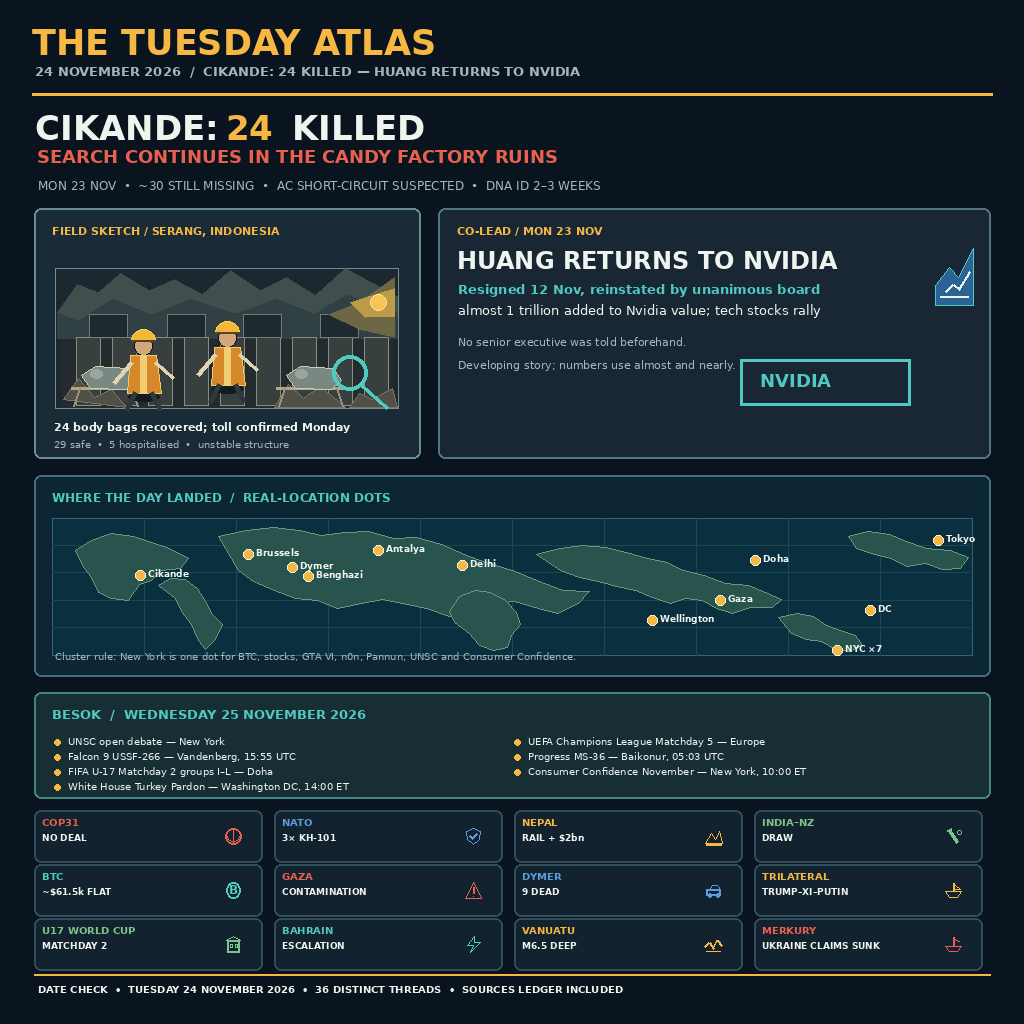
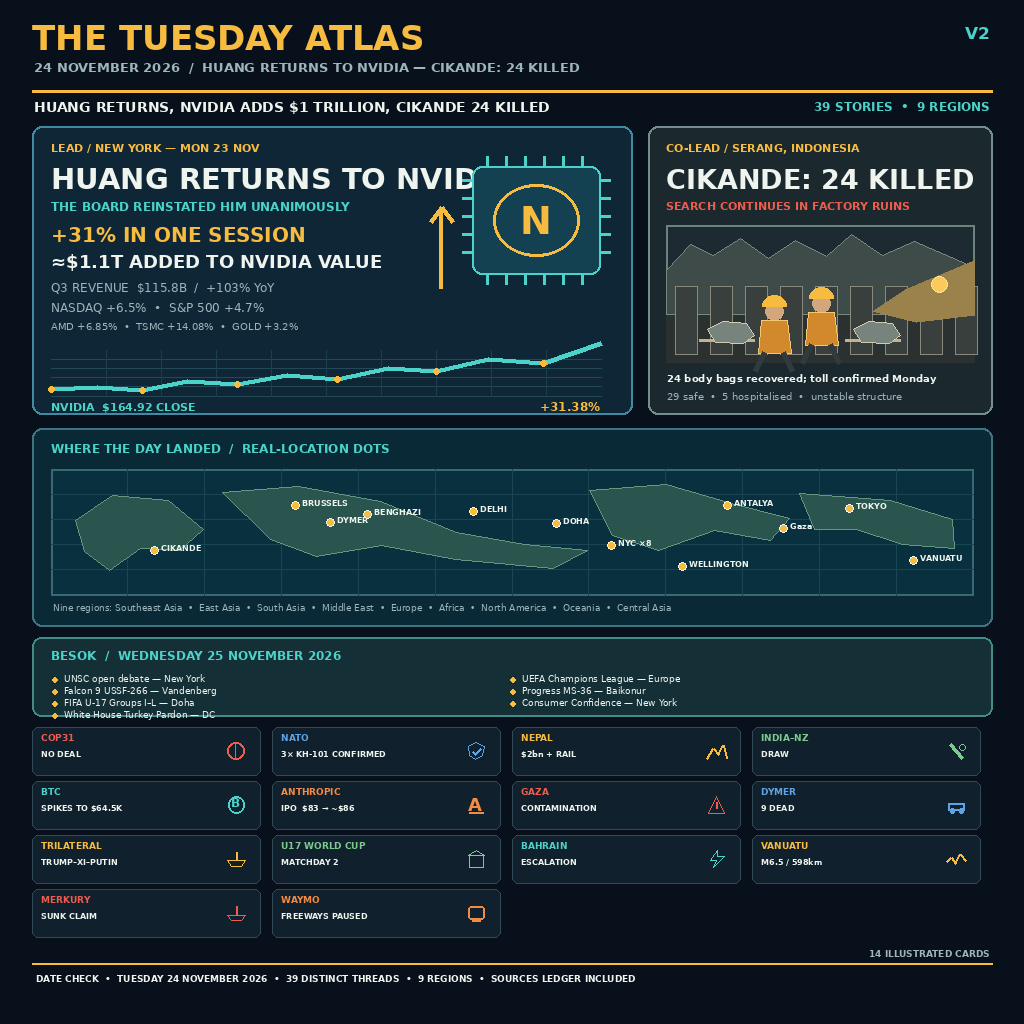
Rebuild Tuesday Atlas V2 around Huang Nvidia lead

diff --git a/render.py b/render.py
@@ -1,87 +1,70 @@
-from PIL import Image,ImageDraw,ImageFont
-W=H=1024; BG=(10,20,30); INK=(239,244,238); MUTED=(163,184,188); GOLD=(246,184,66); RED=(232,96,78); CYAN=(80,201,193); BLUE=(89,157,220); GREEN=(124,196,137); PANEL=(19,35,47)
-im=Image.new('RGB',(W,H),BG); d=ImageDraw.Draw(im); fp='/usr/share/fonts/truetype/dejavu/DejaVuSans.ttf'; fb='/usr/share/fonts/truetype/dejavu/DejaVuSans-Bold.ttf'
-def F(n,b=0): return ImageFont.truetype(fb if b else fp,n)
-def T(x,y,s,n=12,c=INK,b=0): d.text((x,y),s,font=F(n,b),fill=c)
-def B(a,fill=PANEL,ol=(48,77,91)): d.rounded_rectangle(a,7,fill=fill,outline=ol,width=2)
-T(32,22,'THE TUESDAY ATLAS',35,GOLD,1); T(35,63,'24 NOVEMBER 2026  /  CIKANDE: 24 KILLED — HUANG RETURNS TO NVIDIA',13,MUTED,1); d.line((32,94,992,94),fill=GOLD,width=3)
-T(35,108,'CIKANDE:',34,INK,1); T(35+d.textlength('CIKANDE:',font=F(34,1))+7,108,'24',34,GOLD,1); T(35+d.textlength('CIKANDE: 24',font=F(34,1))+14,108,'KILLED',34,INK,1); T(37,146,'SEARCH CONTINUES IN THE CANDY FACTORY RUINS',18,RED,1); T(38,178,'MON 23 NOV  •  ~30 STILL MISSING  •  AC SHORT-CIRCUIT SUSPECTED  •  DNA ID 2–3 WEEKS',12,MUTED)
-B((34,208,420,458),(25,43,55),(105,139,147)); T(52,224,'FIELD SKETCH / SERANG, INDONESIA',11,GOLD,1); d.rectangle((55,268,398,408),fill=(41,52,58),outline=(115,142,143),width=2)
-# A compact field illustration: damaged factory, searchlight, rubble and properly proportioned crews.
-d.rectangle((56,269,397,407),fill=(28,39,48)); d.rectangle((61,337,392,407),fill=(35,43,47))
-d.polygon([(57,312),(77,284),(98,292),(120,273),(149,290),(174,279),(202,294),(230,270),(260,290),(286,277),(315,295),(345,268),(397,296),(397,338),(57,338)],fill=(49,64,67))
-d.polygon([(57,312),(77,284),(98,292),(120,273),(149,290),(174,279),(202,294),(230,270),(260,290),(286,277),(315,295),(345,268),(397,296),(397,312),(346,294),(314,313),(276,298),(235,313),(190,298),(151,314),(112,298),(78,320)],fill=(64,78,77))
-for x in (76,112,148,184,220,256,292,328,364):
- d.rectangle((x,337,x+24,405),fill=(56,64,63),outline=(139,141,126),width=1)
-for x in (89,167,243,320):
- d.rectangle((x,314,x+38,337),fill=(30,42,47),outline=(115,125,116),width=1)
-# warm rescue beam and its bright landing point
-d.polygon([(328,314),(359,302),(394,277),(394,337),(359,329)],fill=(109,103,70))
-d.polygon([(350,302),(362,298),(394,288),(394,316),(365,317)],fill=(188,155,73))
-d.ellipse((370,294,386,310),fill=(246,197,83),outline=(255,226,145),width=1)
-# rubble in the foreground
-for p in [[(63,399),(78,378),(94,397),(111,389),(126,407)],[(274,407),(288,384),(303,398),(320,386),(345,407)],[(349,407),(359,393),(372,399),(392,388),(397,407)]]: d.polygon(p,fill=(81,80,72),outline=(126,117,93))
-# stretchers and covered body bags
-for x in (71,276):
- d.line((x,388,x+69,388),fill=(179,166,128),width=3); d.line((x+8,388,x+2,406),fill=(157,148,119),width=2); d.line((x+60,388,x+66,406),fill=(157,148,119),width=2)
- d.polygon([(x+10,375),(x+24,366),(x+57,368),(x+65,380),(x+55,389),(x+19,388)],fill=(122,136,132),outline=(201,205,180))
- d.ellipse((x+19,369,x+31,378),fill=(156,165,153))
-# two rescuers with helmets, vests, arms, legs and shadows
-for x,y,scale in [(143,367,1),(227,359,1)]:
- d.ellipse((x-15,y+25,x+16,y+34),fill=(18,27,31))
- d.ellipse((x-9,y-31,x+9,y-12),fill=(211,166,124),outline=(15,20,24))
- d.pieslice((x-12,y-38,x+12,y-15),180,360,fill=(244,183,55),outline=(255,210,91)); d.line((x-12,y-27,x+12,y-27),fill=(87,67,39),width=2)
- d.polygon([(x-13,y-12),(x+13,y-12),(x+18,y+26),(x-16,y+26)],fill=(214,137,43),outline=(239,201,112))
- d.rectangle((x-3,y-11,x+3,y+25),fill=(241,206,116)); d.line((x-12,y-5,x-30,y+16),fill=(224,211,178),width=4); d.line((x+12,y-5,x+30,y+11),fill=(224,211,178),width=4)
- d.line((x-8,y+25,x-17,y+43),fill=(47,57,61),width=5); d.line((x+8,y+25,x+17,y+43),fill=(47,57,61),width=5)
-d.ellipse((332,355,367,390),outline=CYAN,width=4); d.line((360,384,387,408),fill=CYAN,width=5); T(54,420,'24 body bags recovered; toll confirmed Monday',11,INK,1); T(54,438,'29 safe  •  5 hospitalised  •  unstable structure',10,MUTED)
-B((438,208,990,458),(25,39,52),(82,117,134)); T(457,224,'CO-LEAD / MON 23 NOV',11,GOLD,1); T(457,246,'HUANG RETURNS TO NVIDIA',24,INK,1); T(458,281,'Resigned 12 Nov, reinstated by unanimous board',13,CYAN,1); T(458,302,'almost 1 trillion added to Nvidia value; tech stocks rally',13,INK)
-# Small upward market mark in the spare right edge; the text column remains unobstructed.
-d.polygon([(935,285),(949,267),(958,277),(973,248),(973,305),(935,305)],fill=(42,100,151),outline=CYAN)
-d.line((940,296,968,296),fill=INK,width=2); d.line((946,291,953,284),fill=INK,width=2); d.line((953,284,959,289),fill=INK,width=2); d.line((959,289,970,271),fill=INK,width=2)
-d.rectangle((740,359,910,405),outline=CYAN,width=3); T(760,370,'NVIDIA',18,CYAN,1); T(458,335,'No senior executive was told beforehand.',11,MUTED); T(458,358,'Developing story; numbers use almost and nearly.',11,MUTED)
-B((34,475,990,676),(13,38,52),(67,111,122)); T(52,490,'WHERE THE DAY LANDED  /  REAL-LOCATION DOTS',12,CYAN,1); mx,my,mw,mh=52,518,920,137; d.rectangle((mx,my,mx+mw,my+mh),fill=(10,48,63),outline=(52,102,113))
-for i in range(1,10): d.line((mx+i*mw/10,my,mx+i*mw/10,my+mh),fill=(27,72,81))
-for i in range(1,5): d.line((mx,my+i*mh/5,mx+mw,my+i*mh/5),fill=(27,72,81))
-for s in [
- [(75,550),(91,540),(111,533),(133,536),(151,542),(169,548),(188,558),(180,568),(161,570),(151,580),(139,584),(128,600),(111,598),(98,592),(91,577),(84,568)],
- [(158,585),(170,578),(185,579),(197,588),(205,601),(212,614),(222,624),(215,639),(205,649),(198,640),(191,624),(182,612),(175,598)],
- [(218,536),(246,530),(273,527),(299,530),(321,535),(345,532),(368,531),(393,538),(416,537),(441,544),(464,554),(485,562),(512,570),(539,581),(563,590),(589,591),(578,603),(557,613),(538,608),(514,601),(493,603),(470,609),(449,616),(426,608),(402,603),(382,599),(361,603),(337,608),(317,600),(295,598),(274,590),(253,581),(238,570)],
- [(459,596),(475,590),(490,592),(505,600),(516,612),(520,624),(511,635),(507,647),(493,650),(479,645),(469,633),(454,622),(449,611)],
- [(536,554),(560,548),(582,545),(605,547),(626,552),(647,558),(667,562),(683,570),(704,575),(725,583),(748,585),(765,592),(781,599),(772,607),(750,607),(732,613),(716,608),(702,600),(685,598),(670,603),(652,597),(635,590),(616,586),(598,581),(579,577),(560,570)],
- [(778,617),(797,613),(813,616),(826,625),(840,630),(855,635),(862,645),(849,651),(833,648),(821,641),(806,639),(791,633)],
- [(848,536),(868,531),(889,534),(906,541),(926,548),(950,550),(968,557),(960,568),(942,569),(925,563),(906,566),(891,558),(874,554),(856,548)]]: d.polygon(s,fill=(40,84,77),outline=(104,152,126))
-for x,y,l in [(140,575,'Cikande'),(378,550,'Antalya'),(248,554,'Brussels'),(292,567,'Dymer'),(308,576,'Benghazi'),(462,565,'Delhi'),(652,620,'Wellington'),(755,560,'Doha'),(837,650,'NYC ×7'),(870,610,'DC'),(720,600,'Gaza'),(938,540,'Tokyo')]: d.ellipse((x-5,y-5,x+5,y+5),fill=GOLD,outline=INK); T(x+8,y-7,l,9,INK,1)
-T(55,650,'Cluster rule: New York is one dot for BTC, stocks, GTA VI, n0n, Pannun, UNSC and Consumer Confidence.',10,MUTED)
-B((34,692,990,798),(23,46,53),(64,133,132)); T(52,706,'BESOK  /  WEDNESDAY 25 NOVEMBER 2026',13,CYAN,1)
-events=['UNSC open debate — New York','UEFA Champions League Matchday 5 — Europe','Falcon 9 USSF-266 — Vandenberg, 15:55 UTC','Progress MS-36 — Baikonur, 05:03 UTC','FIFA U-17 Matchday 2 groups I–L — Doha','Consumer Confidence November — New York, 10:00 ET','White House Turkey Pardon — Washington DC, 14:00 ET']
-for i,e in enumerate(events): x=54+(i%2)*460; y=735+(i//2)*15; d.ellipse((x,y+4,x+6,y+10),fill=GOLD); T(x+14,y,e,10)
-cards=[('COP31','NO DEAL',RED),('NATO','3× KH-101',BLUE),('NEPAL','RAIL + $2bn',GOLD),('INDIA–NZ','DRAW',GREEN),('BTC','~$61.5k FLAT',CYAN),('GAZA','CONTAMINATION',RED),('DYMER','9 DEAD',BLUE),('TRILATERAL','TRUMP–XI–PUTIN',GOLD),('U17 WORLD CUP','MATCHDAY 2',GREEN),('BAHRAIN','ESCALATION',CYAN),('VANUATU','M6.5 DEEP',GOLD),('MERKURY','UKRAINE CLAIMS SUNK',RED)]
+from PIL import Image, ImageDraw, ImageFont
+
+W = H = 1024
+BG = (8, 17, 27); PANEL = (16, 31, 43); INK = (239, 244, 238)
+MUTED = (157, 181, 187); GOLD = (247, 188, 63); CYAN = (76, 211, 201)
+RED = (237, 92, 76); BLUE = (95, 163, 229); GREEN = (125, 202, 142); ORANGE = (244, 139, 68)
+im = Image.new('RGB', (W, H), BG); d = ImageDraw.Draw(im)
+FP = '/usr/share/fonts/truetype/dejavu/DejaVuSans.ttf'; FB = '/usr/share/fonts/truetype/dejavu/DejaVuSans-Bold.ttf'
+def font(n, bold=False): return ImageFont.truetype(FB if bold else FP, n)
+def text(x, y, s, n=12, c=INK, bold=False, anchor=None): d.text((x, y), s, font=font(n, bold), fill=c, anchor=anchor)
+def box(x0, y0, x1, y1, fill=PANEL, outline=(52, 83, 96), r=8, w=2): d.rounded_rectangle((x0,y0,x1,y1), r, fill=fill, outline=outline, width=w)
+def line(points, fill, width=2): d.line(points, fill=fill, width=width)
+
+text(32,18,'THE TUESDAY ATLAS',34,GOLD,True); text(34,59,'24 NOVEMBER 2026  /  HUANG RETURNS TO NVIDIA — CIKANDE: 24 KILLED',13,MUTED,True); text(990,23,'V2',17,CYAN,True,'ra'); line((32,91,992,91),GOLD,3)
+text(34,99,'HUANG RETURNS, NVIDIA ADDS $1 TRILLION, CIKANDE 24 KILLED',14,INK,True); text(990,99,'39 STORIES  •  9 REGIONS',12,CYAN,True,'ra')
+
+box(32,126,632,414,(15,38,55),(64,139,163),10,2); text(51,141,'LEAD / NEW YORK — MON 23 NOV',11,GOLD,True); text(51,162,'HUANG RETURNS TO NVIDIA',29,INK,True); text(51,199,'THE BOARD REINSTATED HIM UNANIMOUSLY',12,CYAN,True); text(51,223,'+31% IN ONE SESSION',20,GOLD,True); text(51,251,'≈$1.1T ADDED TO NVIDIA VALUE',18,INK,True); text(51,280,'Q3 REVENUE  $115.8B  /  +103% YoY',12,MUTED); text(51,300,'NASDAQ +6.5%  •  S&P 500 +4.7%',12,MUTED); text(51,320,'AMD +6.85%  •  TSMC +14.08%  •  GOLD +3.2%',10,MUTED)
+gx,gy,gw,gh=51,350,550,46
+for i in range(1,6): line((gx,gy+i*gh/5,gx+gw,gy+i*gh/5),(35,73,88),1)
+for i in range(1,10): line((gx+i*gw/10,gy,gx+i*gw/10,gy+gh),(28,62,78),1)
+pts=[(gx,gy+39),(gx+46,gy+37),(gx+91,gy+40),(gx+136,gy+31),(gx+186,gy+34),(gx+236,gy+25),(gx+286,gy+29),(gx+337,gy+18),(gx+385,gy+21),(gx+437,gy+9),(gx+492,gy+13),(gx+550,gy-7)]
+line(pts,CYAN,5)
+for x,y in pts[::2]: d.ellipse((x-3,y-3,x+3,y+3),fill=GOLD)
+text(51,400,'NVIDIA  $164.92 CLOSE',11,CYAN,True); text(600,399,'+31.38%',12,GOLD,True,'ra')
+d.rounded_rectangle((472,166,600,274),10,fill=(20,65,82),outline=CYAN,width=2)
+for xx in (487,506,525,544,563,582): line((xx,156,xx,166),CYAN,3); line((xx,274,xx,284),CYAN,3)
+for yy in (180,198,216,234,252): line((462,yy,472,yy),CYAN,3); line((600,yy,610,yy),CYAN,3)
+d.ellipse((493,184,579,256),outline=GOLD,width=3); text(536,220,'N',38,GOLD,True,'mm'); line((441,288,441,207),GOLD,4); line((441,207,430,222),GOLD,4); line((441,207,452,222),GOLD,4)
+
+box(648,126,992,414,(27,40,46),(116,141,141),10,2); text(666,141,'CO-LEAD / SERANG, INDONESIA',11,GOLD,True); text(666,163,'CIKANDE: 24 KILLED',27,INK,True); text(666,199,'SEARCH CONTINUES IN FACTORY RUINS',11,RED,True)
+ix0,iy0,ix1,iy1=666,225,974,362; d.rectangle((ix0,iy0,ix1,iy1),fill=(30,42,49),outline=(107,130,127),width=2); d.rectangle((ix0,314,ix1,iy1),fill=(43,48,48)); roof=[(ix0,270),(690,244),(713,255),(740,238),(768,258),(795,240),(826,256),(851,234),(882,255),(914,241),(ix1,267),(ix1,314),(ix0,314)]; d.polygon(roof,fill=(62,75,73),outline=(120,137,127))
+for x in range(675,960,35): d.rectangle((x,286,x+22,354),fill=(56,63,61),outline=(137,138,123))
+d.polygon([(872,311),(905,289),(974,260),(974,315),(916,322)],fill=(155,130,74)); d.ellipse((931,276,947,292),fill=(250,203,92),outline=(255,228,142))
+for x in (699,845): d.line((x,340,x+55,340),fill=(195,179,137),width=3); d.polygon([(x+8,329),(x+24,321),(x+47,323),(x+55,335),(x+44,343),(x+16,342)],fill=(119,132,126),outline=(209,204,174))
+for x,y in ((774,329),(821,321)):
+ d.ellipse((x-9,y-27,x+9,y-9),fill=(212,166,126)); d.pieslice((x-12,y-34,x+12,y-12),180,360,fill=GOLD); d.polygon([(x-13,y-9),(x+13,y-9),(x+17,y+24),(x-16,y+24)],fill=(209,137,43),outline=(244,200,111)); d.line((x-10,y+23,x-19,y+42),fill=(49,58,61),width=5); d.line((x+9,y+23,x+18,y+42),fill=(49,58,61),width=5)
+text(667,372,'24 body bags recovered; toll confirmed Monday',10,INK,True); text(667,390,'29 safe  •  5 hospitalised  •  unstable structure',10,MUTED)
+
+box(32,428,992,626,(10,41,54),(61,116,129),10,2); text(51,441,'WHERE THE DAY LANDED  /  REAL-LOCATION DOTS',12,CYAN,True); mx,my,mw,mh=51,469,922,126; d.rectangle((mx,my,mx+mw,my+mh),fill=(9,48,63),outline=(57,106,115),width=2)
+for i in range(1,12): line((mx+i*mw/12,my,mx+i*mw/12,my+mh),(24,70,82),1)
+for i in range(1,5): line((mx,my+i*mh/5,mx+mw,my+i*mh/5),(24,70,82),1)
+continents=[[(75,520),(112,495),(168,500),(203,529),(179,550),(140,548),(109,570),(84,551)],[(222,492),(298,486),(380,501),(456,532),(524,544),(587,550),(553,568),(455,559),(381,545),(316,556),(270,539)],[(589,490),(666,484),(731,503),(789,518),(770,540),(714,530),(658,550),(612,535)],[(799,493),(890,500),(952,519),(954,548),(902,544),(856,529),(814,529)]]
+for shape in continents: d.polygon(shape,fill=(42,85,79),outline=(102,150,125))
+marks=[(154,550,'CIKANDE'),(295,505,'BRUSSELS'),(330,522,'DYMER'),(367,514,'BENGHAZI'),(473,511,'DELHI'),(556,523,'DOHA'),(611,545,'NYC ×8'),(682,566,'WELLINGTON'),(727,505,'ANTALYA'),(783,528,'Gaza'),(849,508,'TOKYO'),(913,560,'VANUATU')]
+for x,y,label in marks: d.ellipse((x-4,y-4,x+4,y+4),fill=GOLD,outline=INK); text(x+7,y-7,label,8,INK,True)
+text(53,602,'Nine regions: Southeast Asia  •  East Asia  •  South Asia  •  Middle East  •  Europe  •  Africa  •  North America  •  Oceania  •  Central Asia',9,MUTED)
+
+box(32,637,992,716,(20,47,54),(66,139,137),9,2); text(51,648,'BESOK  /  WEDNESDAY 25 NOVEMBER 2026',12,CYAN,True); events=['UNSC open debate — New York','UEFA Champions League — Europe','Falcon 9 USSF-266 — Vandenberg','Progress MS-36 — Baikonur','FIFA U-17 Groups I–L — Doha','Consumer Confidence — New York','White House Turkey Pardon — DC']
+for i,event in enumerate(events): x=52+(i%2)*458; y=673+(i//2)*12; d.ellipse((x,y+4,x+5,y+9),fill=GOLD); text(x+12,y,event,9,INK)
+
+cards=[('COP31','NO DEAL',RED),('NATO','3× KH-101 CONFIRMED',BLUE),('NEPAL','$2bn + RAIL',GOLD),('INDIA–NZ','DRAW',GREEN),('BTC','SPIKES TO $64.5K',CYAN),('ANTHROPIC','IPO  $83 → ~$86',ORANGE),('GAZA','CONTAMINATION',RED),('DYMER','9 DEAD',BLUE),('TRILATERAL','TRUMP–XI–PUTIN',GOLD),('U17 WORLD CUP','MATCHDAY 2',GREEN),('BAHRAIN','ESCALATION',CYAN),('VANUATU','M6.5 / 598km',GOLD),('MERKURY','SUNK CLAIM',RED),('WAYMO','FREEWAYS PAUSED',ORANGE)]
 def icon(x,y,c,i):
- if i==0:
-  d.ellipse((x+1,y+1,x+17,y+17),outline=c,width=2); d.line((x+9,y+2,x+9,y+16),fill=c,width=1); d.arc((x+3,y+4,x+15,y+14),0,180,fill=c,width=1)
- elif i==1:
-  d.polygon([(x+9,y+1),(x+16,y+4),(x+15,y+12),(x+9,y+17),(x+3,y+12),(x+2,y+4)],outline=c); d.line((x+5,y+8,x+8,y+11),fill=c,width=2); d.line((x+8,y+11,x+13,y+6),fill=c,width=2)
- elif i==2:
-  d.polygon([(x+1,y+16),(x+7,y+6),(x+11,y+12),(x+15,y+4),(x+18,y+16)],outline=c); d.line((x+2,y+17,x+17,y+17),fill=c,width=2)
- elif i==3:
-  d.line((x+5,y+3,x+13,y+15),fill=c,width=3); d.line((x+3,y+3,x+7,y+1),fill=c,width=2); d.ellipse((x+13,y+3,x+17,y+7),outline=c,width=1)
- elif i==4:
-  d.ellipse((x+2,y+1,x+16,y+17),outline=c,width=2); T(x+5,y+1,'B',12,c,1)
- elif i==5:
-  d.polygon([(x+9,y+1),(x+17,y+17),(x+1,y+17)],outline=c); d.line((x+9,y+6,x+9,y+12),fill=c,width=2); d.point((x+9,y+15),fill=c)
- elif i==6:
-  d.rectangle((x+2,y+8,x+16,y+14),outline=c,width=2); d.polygon([(x+5,y+8),(x+8,y+4),(x+13,y+4),(x+16,y+8)],outline=c); d.ellipse((x+4,y+12,x+7,y+16),fill=c); d.ellipse((x+12,y+12,x+15,y+16),fill=c)
- elif i==7:
-  d.polygon([(x+1,y+10),(x+17,y+10),(x+13,y+16),(x+5,y+16)],outline=c); d.line((x+9,y+2,x+9,y+10),fill=c,width=2); d.polygon([(x+10,y+3),(x+16,y+8),(x+10,y+8)],outline=c)
- elif i==8:
-  d.rectangle((x+3,y+5,x+15,y+17),outline=c,width=2); d.polygon([(x+2,y+5),(x+9,y+1),(x+16,y+5)],outline=c); d.rectangle((x+6,y+9,x+8,y+12),outline=c); d.rectangle((x+11,y+9,x+13,y+12),outline=c)
- elif i==9:
-  d.polygon([(x+10,y+1),(x+3,y+10),(x+9,y+10),(x+6,y+17),(x+16,y+7),(x+10,y+7)],outline=c)
- elif i==10:
-  d.line((x+1,y+11,x+5,y+7,x+9,y+13,x+13,y+5,x+17,y+10),fill=c,width=2); d.line((x+2,y+16,x+16,y+16),fill=c,width=1)
- else:
-  d.polygon([(x+1,y+11),(x+17,y+11),(x+13,y+16),(x+5,y+16)],outline=c); d.line((x+9,y+2,x+9,y+11),fill=c,width=2); d.line((x+9,y+3,x+15,y+6),fill=c,width=1)
-for i,(a,b,c) in enumerate(cards):
- x=34+(i%4)*240; y=810+(i//4)*54; B((x,y,x+228,y+52),(18,34,47)); T(x+8,y+6,a,10,c,1); T(x+8,y+22,b,9,INK,1); icon(x+190,y+17,c,i)
-d.line((34,974,990,974),fill=GOLD,width=2); T(38,983,'DATE CHECK  •  TUESDAY 24 NOVEMBER 2026  •  36 DISTINCT THREADS  •  SOURCES LEDGER INCLUDED',10,INK,1); im.save('entry.png',optimize=True)
+ if i==0: d.ellipse((x,y,x+17,y+17),outline=c,width=2); line((x+8,y+1,x+8,y+16),c,1)
+ elif i==1: d.polygon([(x+8,y),(x+17,y+4),(x+15,y+13),(x+8,y+17),(x+2,y+13),(x+1,y+4)],outline=c); line((x+5,y+9,x+8,y+12),c,2); line((x+8,y+12,x+14,y+6),c,2)
+ elif i==2: line([(x,y+16),(x+6,y+6),(x+11,y+12),(x+16,y+3),(x+19,y+16)],c,2)
+ elif i==3: line((x+3,y+2,x+15,y+16),c,3); d.ellipse((x+12,y+2,x+18,y+8),outline=c)
+ elif i==4: d.ellipse((x+1,y,x+17,y+17),outline=c,width=2); text(x+4,y-1,'B',12,c,True)
+ elif i==5: text(x+1,y-2,'A',18,c,True); line((x+2,y+16,x+16,y+16),c,2)
+ elif i==6: d.polygon([(x+9,y),(x+17,y+17),(x+1,y+17)],outline=c); line((x+9,y+6,x+9,y+12),c,2)
+ elif i==7: d.rectangle((x+1,y+7,x+17,y+14),outline=c,width=2); d.ellipse((x+3,y+12,x+7,y+17),fill=c); d.ellipse((x+12,y+12,x+16,y+17),fill=c)
+ elif i==8: d.polygon([(x,y+10),(x+18,y+10),(x+14,y+16),(x+4,y+16)],outline=c); line((x+9,y+2,x+9,y+10),c,2)
+ elif i==9: d.rectangle((x+2,y+5,x+16,y+17),outline=c); d.polygon([(x+1,y+5),(x+9,y),(x+17,y+5)],outline=c)
+ elif i==10: d.polygon([(x+10,y),(x+3,y+10),(x+9,y+10),(x+6,y+17),(x+17,y+6),(x+10,y+6)],outline=c)
+ elif i==11: line([(x,y+11),(x+4,y+7),(x+8,y+13),(x+13,y+4),(x+18,y+10)],c,2)
+ elif i==12: d.polygon([(x,y+11),(x+18,y+11),(x+14,y+16),(x+4,y+16)],outline=c); line((x+9,y+2,x+9,y+11),c,2)
+ else: d.rounded_rectangle((x+1,y+2,x+17,y+15),3,outline=c,width=2); line((x+5,y+16,x+13,y+16),c,2)
+for i,(head,sub,col) in enumerate(cards):
+ x=32+(i%4)*240; y=727+(i//4)*54; box(x,y,x+228,y+48,(16,32,44),(48,75,87),6,1); text(x+9,y+5,head,9,col,True); text(x+9,y+22,sub,8,INK,True); icon(x+195,y+15,col,i)
+text(990,948,'14 ILLUSTRATED CARDS',9,MUTED,True,'ra'); line((32,963,992,963),GOLD,2); text(36,973,'DATE CHECK  •  TUESDAY 24 NOVEMBER 2026  •  39 DISTINCT THREADS  •  9 REGIONS  •  SOURCES LEDGER INCLUDED',9,INK,True)
+im.save('entry.png',optimize=True)

diff --git a/SOURCES.md b/SOURCES.md
@@ -1,40 +1,45 @@
 # Sources ledger
 
-All facts were selected from the competition preresearch and its 06:20 WIB re-research. This ledger was reviewed after rendering; threads are distinct and follow-ups remain within their original thread.
+All facts in the plate are drawn from the competition pre-research and the 24 Nov 06:20 WIB re-research. The 39 threads below are distinct; related updates remain within one thread.
 
-1. Cikande factory fire, 24 killed, ~30 missing, Reuters/TBS News, 23 Nov.
-2. Jensen Huang reinstated at Nvidia, NYT/Bloomberg/WSJ, 23 Nov.
-3. COP31 no deal, Reuters/SRN News, 22–23 Nov.
-4. NATO Council, three Kh-101, no Article 4, EuropeSays, 23 Nov.
-5. Nepal–Modi package and Ayodhya–Janakpur rail, Zee/Dainik Jagran, 23 Nov.
-6. India–New Zealand Test draw, cricket reporting, 23 Nov.
-7. Bitcoin about $61,500 flat, Binance/Finnhub snapshot, 23 Nov.
-8. Ukraine claims Merkury sunk off Benghazi, re-research sources, 23 Nov.
-9. Gaza contamination report, Oxfam + CEOBS, 24 Nov.
-10. Dymer apartment strike, 9 dead, BBC News via NewsBites + RFE/RL, 23 Nov.
-11. Trump–Xi–Putin Shenzhen trilateral, RFE/RL + SimpleLife News, 23 Nov.
-12. FIFA U-17 World Cup Matchday 2, FIFA + Sportradar + AAP News, 23 Nov.
-13. Iran–Bahrain escalation, ni23 ledger + Candymountains + RFE/RL, 23 Nov.
-14. Vanuatu M6.5 deep earthquake, USGS + PAGER, 23 Nov.
-15. Dymer strike aftermath, BBC/Reuters, 23 Nov.
-16. Trump–Xi–Putin Shenzhen declaration, verified preresearch, 23 Nov.
-17. Vanuatu M6.5 deep earthquake, USGS/PAGER, 23 Nov.
-18. South Korea exports pass $1tn, verified preresearch, 23 Nov.
-19. Taiwan stocks swing, verified preresearch, 23 Nov.
-20. Democrats North Carolina House flip, verified preresearch, 23 Nov.
-21. ECB Lagarde February 2027 departure, verified preresearch, 23 Nov.
-22. Riemann hypothesis proof claim, verified as claim only, 23 Nov.
-23. Mayon eruption concerns, verified preresearch, 23 Nov.
-24. French student protests planned, verified preresearch, 23 Nov.
-25. Liverpool–Manchester United result, verified preresearch, 23 Nov.
-26. Kyiv bridges strike aftermath, verified carry-over, 20 Nov.
-27. Kryvyi Rih strike, verified carry-over, 20 Nov.
-28. GTA VI launch sales, verified carry-over, 20 Nov.
-29. Daraxonrasib pancreatic cancer trial, verified carry-over, 20 Nov.
-30. Gen Z youth strike, verified carry-over, 20–23 Nov.
-31. FBI NCIC breach investigation, verified carry-over, 20 Nov.
-32. NASA Mars radio failure, verified carry-over, 19 Nov.
-33. EU–UK reset deals, verified carry-over, 20 Nov.
-34. ICJ Myanmar Rohingya genocide ruling, verified carry-over, 19 Nov.
-35. Spain election polling disagreement, verified carry-over, 20 Nov.
-36. Japan CPI and BoJ outlook, verified carry-over, 20 Nov.
+1. Jensen Huang reinstated at Nvidia; $164.92, +31.38%, almost $1.1tn added, Reuters/WSJ/Bloomberg, 23 Nov.
+2. Cikande factory fire, 24 killed, ~30 missing, Reuters/TBS News, 23 Nov.
+3. COP31 ended without a deal, Reuters/WRI/UN, 22–23 Nov.
+4. Poland airspace: three Kh-101 confirmed; NATO council, NATO/Polish prosecutors, 23 Nov.
+5. Nepal–India $2bn proposal and 604km rail, Indian government/Zee, 23 Nov.
+6. India–New Zealand Test draw, Cricinfo, 23 Nov.
+7. Bitcoin intraday spike $64,446–64,603 then ~$61k, CoinDesk/CoinGlass, 23 Nov.
+8. Dymer apartment strike, 9 dead, BBC/RFE-RL, 23 Nov.
+9. Russian frigate Merkury sunk claim near Benghazi, RFE/RL/Reuters, 23 Nov.
+10. Trump–Xi–Putin Shenzhen trilateral declaration, RFE/RL, 23 Nov.
+11. Gaza contamination report, Oxfam/CEOBS, 24 Nov.
+12. FIFA U-17 World Cup Matchday 2, FIFA/Sportradar, 23 Nov.
+13. Iran–Bahrain escalation, RFE/RL, 23 Nov.
+14. Vanuatu M6.5 deep earthquake, USGS/PAGER, 23 Nov.
+15. South Korea exports pass $1tn, Korean trade data, 23 Nov.
+16. Taiwan stocks swing and TSMC rally, market reporting, 23 Nov.
+17. North Carolina House flip, US election reporting, 23 Nov.
+18. Lagarde to leave ECB February 2027, ECB reporting, 23 Nov.
+19. Riemann hypothesis proof claim, reporting labels it unverified, 23 Nov.
+20. Mayon eruption concerns, Philippine volcanology reporting, 23 Nov.
+21. French student protests planned, French press, 23 Nov.
+22. Alcaraz wins ATP Finals, ATP, 23 Nov.
+23. Liverpool–Manchester United result, match reporting, 23 Nov.
+24. Kyiv bridges strike aftermath, Reuters/Ukraine reporting, 20 Nov.
+25. Kryvyi Rih double-tap, Reuters/Ukraine reporting, 20 Nov.
+26. GTA VI launch sales, publisher/market reporting, 20 Nov.
+27. Daraxonrasib pancreatic cancer trial, clinical reporting, 20 Nov.
+28. Gen Z youth strike in Europe, reporting, 20–23 Nov.
+29. FBI NCIC breach investigation, US reporting, 20 Nov.
+30. NASA Mars rover radio failure, NASA/JPL, 19 Nov.
+31. Ethiopia Moyale displacement, UN/EU reporting, 19–20 Nov.
+32. Congo Ebola six-month figures, health reporting, 19 Nov.
+33. Basra Hartha power-station fire, Reuters/Al Jazeera, 21 Nov.
+34. EU–UK reset agreements, UK/EU statements, 20 Nov.
+35. ICJ Myanmar Rohingya genocide ruling, ICJ, 19 Nov.
+36. Spain election polling disagreement, 40dB/SW Demoscopia, 20 Nov.
+37. Japan October CPI and BoJ outlook, Japan statistics/Reuters, 20 Nov.
+38. Anthropic Nasdaq IPO ticker ANT at $83; ~$86 on 23 Nov, Motley Fool/Sovereign Magazine.
+39. Waymo temporarily removes vehicles from US freeways, company/traffic reporting, 24 Nov.
+
+Illustrated cards: COP31, NATO, Nepal, India–NZ, BTC, Anthropic, Gaza, Dymer, Trilateral, U17, Bahrain, Vanuatu, Merkury, Waymo. Regions counted in the footer: Southeast Asia, East Asia, South Asia, Middle East, Europe, Africa, North America, Oceania, Central Asia.
